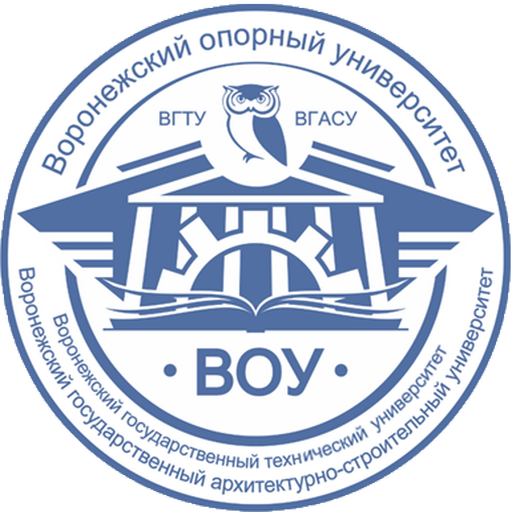
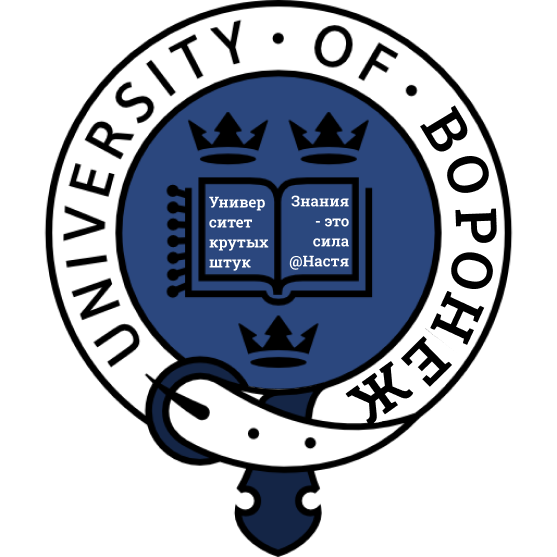
Clean Login from comments, change Logotype, name of university. Remove unnecessary code. Add Tasks component, add replace text when tasks are not exist

diff --git a/components/Login.js b/components/Login.js
@@ -2,15 +2,12 @@ import {
   Text,
   View,
   Image,
-  KeyboardAvoidingView,
-  ScrollView,
 } from "react-native"
 import { LinearGradient } from "expo-linear-gradient"
 import { useState, useEffect } from "react"
 import { styleLogin } from "../styles/login"
 import Form from "./Form"
 import { gStyle } from "../styles/gStyle"
-import { auth } from "../base"
 import { useNavigation } from "@react-navigation/core"
 import * as firebase from "firebase"
 import AsyncStorage from '@react-native-async-storage/async-storage';
@@ -23,14 +20,6 @@ export default function Login(props) {
   const navigation = useNavigation()
 
   useEffect(() => {
-    // ПЕРЕАДРИСОВВКА ДОМОЙ
-    // const unsubscribe=auth.onAuthStateChanged(user=>{
-    //   if(user){
-    //     navigation.navigate("Home")
-    //   }
-    // })
-    // return unsubscribe
-    // console.log(props.route.params)
 
   })
 
@@ -38,7 +27,6 @@ export default function Login(props) {
     try {
       await AsyncStorage.setItem(`@${key}`, value)
     } catch (e) {
-      // saving error
       console.log('set item was failed');
     }
   }
@@ -48,26 +36,8 @@ export default function Login(props) {
     setData('user', JSON.stringify(user))
 await props.route.params.addUser(user)
 
-    // localStorage.setItem('isTeach', isTeach*1)
-    // localStorage.setItem('user', user.id)
   }
   const GoToPRBtnOnPressHandler = (e) => {
-    // for (let i = 0; i < sampleObj.length; i++) {
-    //   let acc = sampleObj[i]
-    //   if (acc.login === input_login) {
-    //     p_login.classList.add("hide")
-    //     p_login.classList.remove("show")
-    //     if (acc.password == password) {
-    //       signin(acc, () => navigate("/", { replace: true }))
-    //       // break
-    //     }
-    //     p_pass.classList.add("show")
-    //     break
-    //   } else {
-    //     p_login.classList.remove("hide")
-    //     p_login.classList.add("show")
-    //   }
-    // }
    
     if (!isSelected) {
       const studentsRef = firebase.database().ref("students/")
@@ -80,40 +50,14 @@ await props.route.params.addUser(user)
         })
     } else {
       const teachersRef = firebase.database().ref("teachers/")
-      // const populationQuery = teachersRef.where("login", "==", login);
-      // console.log(populationQuery)
       teachersRef
         .orderByChild("login")
         .equalTo(login)
         .on("child_added", function (data) {
           if (data.val().pass === pass) signIn(data.val())
-          // if (data.val().pass === pass) console.log(data.val())
         })
     }
   }
-
-  // const q = query(firebase.database().ref(`/students`), where("login", ">", 100000), orderBy("population"));
-
-  // ---- Вход по емаил в firebase
-  // const hanldeLogin=(e)=>{
-  //   auth
-  //   .signInWithEmailAndPassword(login,pass)
-  //   .then(userCredentials=>{
-  //         const user=userCredentials.user
-  //         console.log(user.email);
-  //       })
-  //       .catch(error=> alert(error.message))
-  // }
-
-  // const handleSignUp=()=>{
-  //   auth
-  //   .createUserWithEmailAndPassword(login,pass)
-  //   .then(userCredentials=>{
-  //     const user=userCredentials.user
-  //     console.log(user.login);
-  //   })
-  //   .catch(error=> alert(error.message))
-  // }
   return (
     <LinearGradient
       colors={["#3F70A8", "#4B84C5", "#4F8BD0"]}
@@ -128,8 +72,7 @@ await props.route.params.addUser(user)
             source={require("../assets/2408025.png")}
           />
           <Text style={styleLogin.loginTitle}>
-            Портал справочной {"\n"} информации для {"\n"}студентов {"\n"}ВГТУ
-            СПК
+            Портал справочной{"\n"}информации для{"\n"}студентов
           </Text>
         </View>
       </View>
@@ -144,12 +87,10 @@ await props.route.params.addUser(user)
           setSelection={setSelection}
         />
       </View>
-      {/* <View style={styleLogin.loginWrapBottom}> */}
       <View style={[gStyle.circle, styleLogin.loginCircleBottom]}></View>
       <Text style={styleLogin.loginCopy}>
-        &#169; 2022 ФГБОУ ВО «ВГТУ».{"\n"} Все права защищены
+        &#169; 2022 University of Воронеж.{"\n"} Все права защищены
       </Text>
-      {/* </View> */}
     </LinearGradient>
   )
 }

diff --git a/components/Tasks.js b/components/Tasks.js
@@ -1,0 +1,38 @@
+import React, { Component, useState } from "react"
+import { Text, View } from "react-native"
+import { gStyle } from "../styles/gStyle"
+import { LinearGradient } from "expo-linear-gradient"
+import GoBackBtn from "./GoBackBtn"
+import Header from "./Header"
+import Loading from "./Loading"
+
+const Tasks = (props) => {
+  const [user, setUser] = useState(props.route.params.user)
+  const [tasks, setTasks] = useState([])
+  return (
+    <View style={gStyle.container}>
+      <LinearGradient
+        colors={["#3F70A8", "#4B84C5", "#4F8BD0"]}
+        style={gStyle.gradient}
+        start={{ x: 0, y: 1 }}
+        end={{ x: 0, y: -1 }}
+      >
+        <>
+          <Header user={user} />
+          <View style={gStyle.wrapperPadding}>
+            <GoBackBtn goBack={() => props.navigation.goBack()} />
+            {tasks.length > 0 ? (
+              console.log(tasks)
+            ) : (
+              <View style={[{ width: '100%' ,height: '80%',justifyContent: 'center', alignItems: 'center'}]}>
+                <Text style={[gStyle.H5, ]}>Ура! На сегодня задач нет ✅</Text>
+              </View>
+            )}
+          </View>
+        </>
+      </LinearGradient>
+    </View>
+  )
+}
+
+export default Tasks

diff --git a/components/SearchPeople.js b/components/SearchPeople.js
@@ -27,10 +27,9 @@ export default function SeatchPeople(props) {
   }
   const getStudents = () => {
     const studentsRef = firebase.database().ref(`students/`)
-    studentsRef
-      .on("value", function (data) {
-        setStudents(data.val().filter((item) => item))
-      })
+    studentsRef.on("value", function (data) {
+      setStudents(data.val().filter((item) => item))
+    })
   }
 
   const getGroups = () => {
@@ -70,15 +69,8 @@ export default function SeatchPeople(props) {
     })
   }
 
-  const createTitle = () => {
-    if (user?.isTeach) {
-      if (students.length > 0) return "Список студентов"
-      else if (groups.length > 0 && students.length <= 0)
-        return "Выберите группу"
-    } else {
-      return "Список преподавателей"
-    }
-  }
+  const createTitle = () =>
+    user?.isTeach ? "Список студентов" : "Список преподавателей"
 
   useEffect(() => {
     if (user?.isTeach) {

diff --git a/components/ProfilSubject.js b/components/ProfilSubject.js
@@ -2,7 +2,6 @@ import { Text, View, Image, Pressable, TouchableOpacity } from "react-native"
 import { LinearGradient } from "expo-linear-gradient"
 import { useState, useEffect } from "react"
 import { stylePS } from "../styles/profilSubject"
-import { Button, FlatList, TextInput } from "react-native-web"
 import { gStyle } from "../styles/gStyle"
 import GoBackBtn from "./GoBackBtn"
 import Header from "./Header"
@@ -81,7 +80,7 @@ export default function ProfilSubject(props) {
               </View>
               <TouchableOpacity
                 style={stylePS.button}
-                onPress={() => console.log("ff")}
+                onPress={()=>props.navigation.navigate('Tasks',{user})}
               >
                 <Text style={stylePS.buttonText}>перейти в радел заданий</Text>
               </TouchableOpacity>

diff --git a/App.js b/App.js
@@ -22,6 +22,7 @@ import ProfilSubject from "./components/ProfilSubject"
 import SeatchSubject from "./components/SearchSubject"
 import SearchPeople from "./components/SearchPeople"
 import base from "./base"
+import Tasks from "./components/Tasks"
 // const UserContext = React.createContext("")
 
 export default class App extends React.Component {
@@ -90,6 +91,12 @@ export default class App extends React.Component {
               name="SearchPeople"
               options={{ headerShown: false }}
               component={SearchPeople}
+              // initialParams={{'addUser': this.addUser}}
+            />
+            <Stack.Screen
+              name="Tasks"
+              options={{ headerShown: false }}
+              component={Tasks}
               // initialParams={{'addUser': this.addUser}}
             />
            

diff --git a/styles/tasks.js b/styles/tasks.js
@@ -1,0 +1,10 @@
+import { StyleSheet, Platform } from "react-native"
+
+export const styleTasks = StyleSheet.create({
+    textFiller:{
+        flex: 1,
+        color: '#fff',
+        fontFamily: 'sansat_reg',
+        f
+    }
+})

diff --git a/styles/searchSubject.js b/styles/searchSubject.js
@@ -1,5 +1,4 @@
 import { StyleSheet, Platform } from "react-native"
-import { G } from "react-native-svg"
 
 export const styleSS = StyleSheet.create({
     wrap:{
